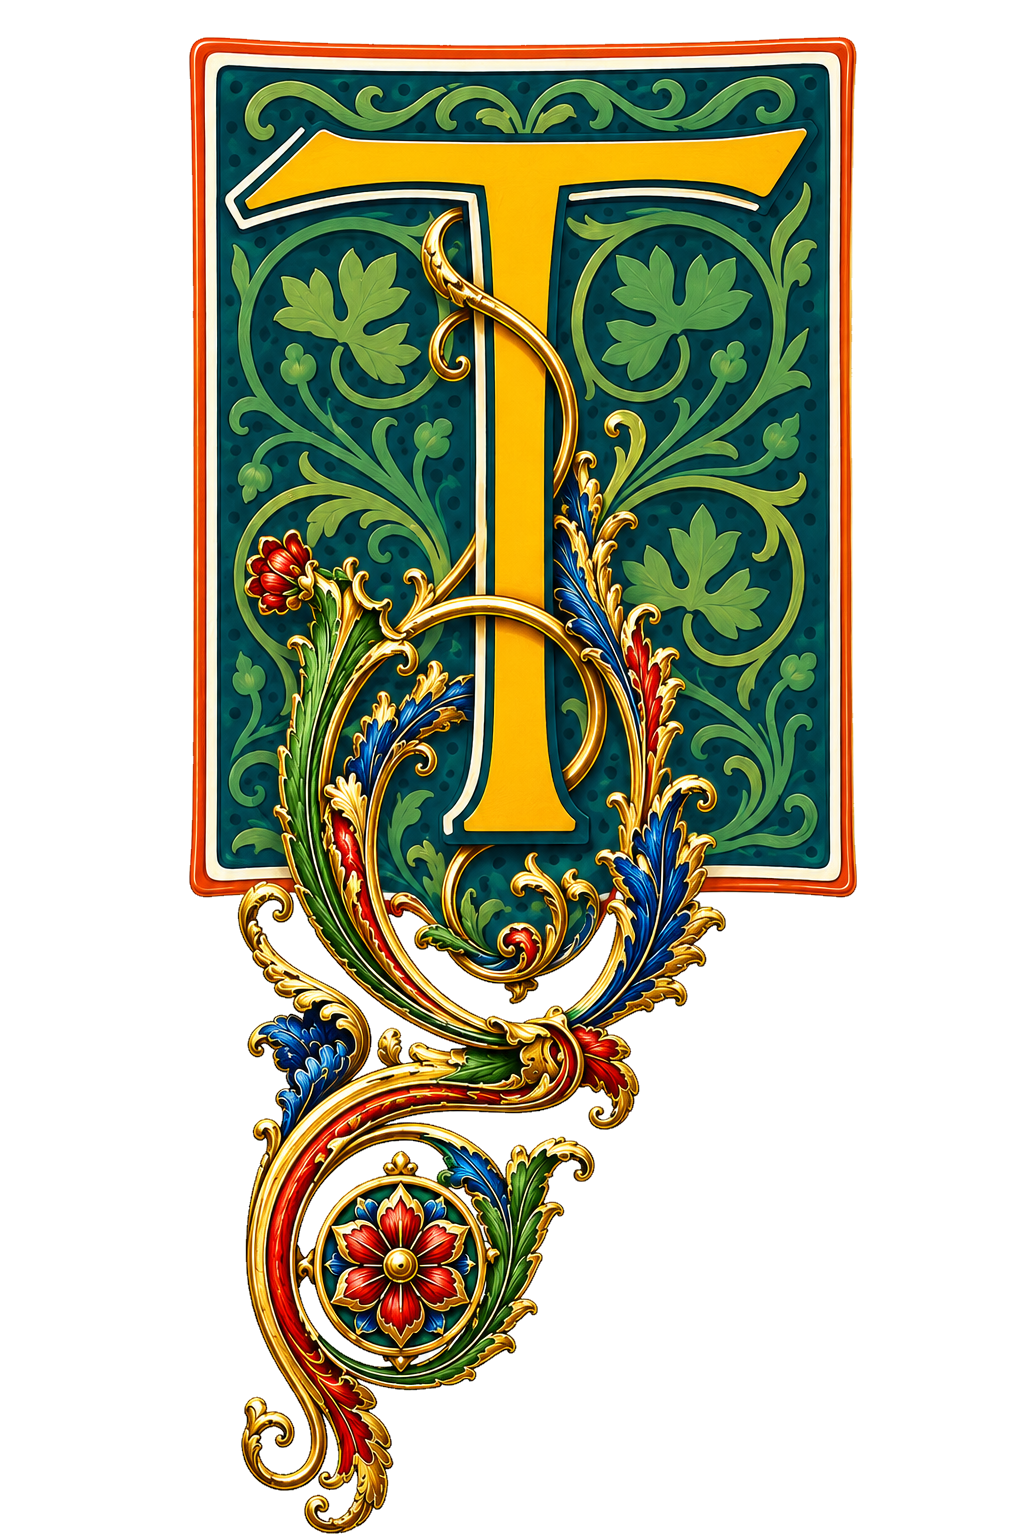
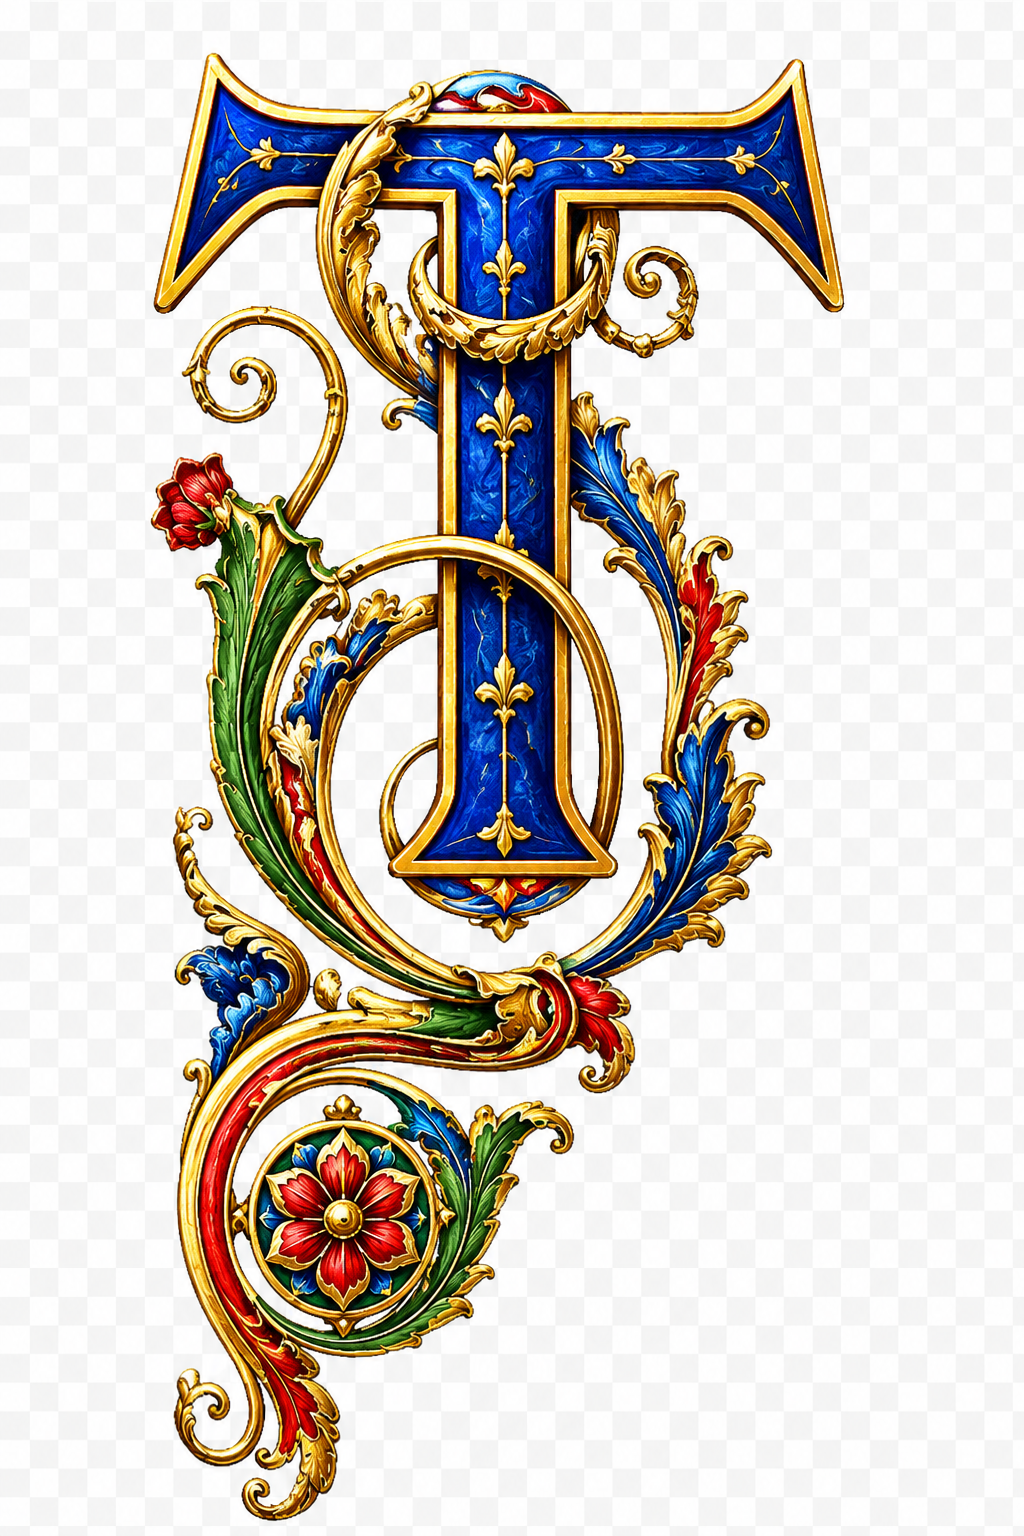
Add illuminated initials to Stuttgart page

diff --git a/style.css b/style.css
@@ -1460,6 +1460,31 @@ footer {
   letter-spacing: 0;
 }
 
+.heritageIlluminatedTitle {
+  font-family: Georgia, "Times New Roman", serif;
+}
+
+.heritageIlluminatedTitle .titleName {
+  display: inline-flex;
+  align-items: flex-end;
+  gap: 2px;
+  margin-right: 0.12em;
+  vertical-align: baseline;
+}
+
+.heritageIlluminatedTitle .titleName img {
+  width: clamp(88px, 11vw, 148px);
+  height: auto;
+  margin-right: -0.16em;
+  transform: translateY(0.12em);
+}
+
+.heritageIlluminatedTitle .titleName span {
+  font-family: "UnifrakturCook", "UnifrakturMaguntia", "Old English Text MT", "Blackletter", Georgia, serif;
+  font-weight: 900;
+  letter-spacing: 0;
+}
+
 .heritageEssay h3 {
   margin: 46px 0 16px;
   font-size: clamp(24px, 2.5vw, 34px);
@@ -1488,6 +1513,30 @@ footer {
 
 .heritageEssay em {
   font-style: italic;
+}
+
+.parchmentPassage {
+  margin: 34px 0 48px;
+  padding: clamp(24px, 4vw, 42px);
+  border: 1px solid rgba(137, 94, 44, 0.28);
+  border-radius: 8px;
+  background:
+    radial-gradient(circle at 16% 18%, rgba(255, 255, 255, 0.38), transparent 28%),
+    radial-gradient(circle at 86% 82%, rgba(129, 82, 37, 0.12), transparent 34%),
+    linear-gradient(135deg, #f5dfc5 0%, #f1d1ac 48%, #ead7bd 100%);
+  box-shadow: inset 0 0 42px rgba(124, 79, 37, 0.13), 0 18px 46px rgba(71, 44, 20, 0.12);
+}
+
+.parchmentPassage p {
+  margin: 0;
+  color: #2f241c;
+}
+
+.parchmentInitial {
+  float: left;
+  width: clamp(72px, 10vw, 122px);
+  height: auto;
+  margin: 0.18em 0.22em 0 0;
 }
 
 .heritageReveal {

diff --git a/konig_von_england_stuttgart.html b/konig_von_england_stuttgart.html
@@ -25,7 +25,9 @@
       <figure><img src="images/culturalheritage/stuttgart/koenigvonengland.jpg" alt="König von England, Stuttgart"></figure>
     </section>
     <section class="objectContent sectionPanel reveal visible heritageEssay">
-      <h2>König von England: From a Renaissance-Era Domestic Building, Possibly, to a Baroque Court Café, an Inn, and a Witness to History</h2>
+      <h2 class="heritageIlluminatedTitle">
+        <span class="titleName"><img src="images/culturalheritage/stuttgart/initialk.png" alt="K" aria-hidden="true"><span>önig von England</span></span><span>: From a possible Renaissance-Era Domestic Building, to a Baroque Court Café, an Inn, and a Witness to History</span>
+      </h2>
       <p>Standing today in Schillerplatz, at the centre of Stuttgart's old town, between the Stiftskirche, the Altes Schloss, the Alte Kanzlei, and the Markthalle, one sees a restrained twentieth-century building composed of pale stone and regular window bays. Above its entrance, the name still reads: <em>König von England</em>, literally, "King of England."</p>
       <p>This name is not a nostalgic trademark invented by a modern developer. It continues the name of a celebrated hotel destroyed in the air raids of 1944. Looking further back, the site is connected with Stuttgart's earliest public coffee house, eighteenth-century reading societies, a nineteenth-century high-class hotel, the travel histories of writers and musicians, and the post-war debate over whether historical buildings should be reconstructed or replaced by contemporary architecture.</p>
       <p>Strictly speaking, the present <em>König von England</em> is not a single building that has existed continuously for several centuries. Rather, it consists of two architectural generations on the same site and under the same name: first, a timber-framed inn that developed from the sixteenth century onward, was substantially remodelled in 1798, and burned down in 1944; and second, an office and commercial building erected between 1954 and 1956, with an extension added in 1960/61.</p>
@@ -34,7 +36,7 @@
       <p>The building stands at Dorotheenstraße 2, 70173 Stuttgart, at the junction of Dorotheenstraße, Kirchstraße, and Schillerplatz, at approximately 48.7766° N and 9.1785° E.</p>
       <p>The significance of this location derives first from its relationship to Stuttgart's courtly quarter. In 1594, Duke Friedrich I of Württemberg commissioned the architect Heinrich Schickhardt to reorganise the space west of the palace. Older domestic buildings were purchased and demolished, and a representative Renaissance square was laid out: the later <em>Schloss- und Kanzleiplatz</em>. Before the twentieth century, today's Schillerplatz was usually known as the <em>Alter Schlossplatz</em>; only in 1934 was it officially renamed Schillerplatz.</p>
       <p>The plot later occupied by the <em>König von England</em> lay on the southern side of the square, between the Altes Schloss and the Stiftskirche. Facing the court and administrative buildings on one side, and connected to the market and the lanes of the old town on the other, the site was naturally suited to lodging, dining, newspaper reading, and social exchange. Local historical accounts suggest that a building already stood on this corner in the sixteenth century. The large timber-framed hotel visible in old photographs was in fact formed through the combination and enlargement of three earlier building units. This also explains why it combined an early <em>Fachwerk</em> appearance with an interior spatial order unified at the end of the eighteenth century.</p>
-      <p>The following discussion is based on historical materials and on the reconstruction of old photographs through AI-assisted methods.</p>
+      <p>The following part is based on historical materials and on the reconstruction of old photographs through Al-assisted methods.</p>
 
       <figure class="heritageReveal" data-heritage-reveal tabindex="0" role="button" aria-label="Click to reveal the historical photograph, then drag the handle left to compare the coloured reconstruction">
         <div class="heritageRevealStage">
@@ -72,7 +74,9 @@
       <p>Two dates survive in the available material: 1793, the date of a vaulted keystone bearing the initials of Heinrich Zacharias Glaser; and 1798, usually regarded as the year in which the overall hotel conversion was completed and the building formally became <em>Zum König von England</em>. This suggests that the work likely extended over several years rather than being completed abruptly in 1798 alone.</p>
       <p>The exterior retained the character of a striking <em>Fachwerkhaus</em>, a timber-framed building. Old photographs show tall gables, dense and decorative timber grids, and a complex massing facing the square and church. Later writers described it as one of Stuttgart's most splendid or most beautiful timber-framed buildings; such descriptions, however, are evaluative rather than objectively rankable facts.</p>
       <p>The more specific character of the 1798 transformation appeared in the interior, which adopted <em>Klassizismus</em>, or Neoclassicism. The second floor contained large banquet and dining rooms; spatial proportions, wall treatment, and decoration moved toward a classical order; and the formerly dispersed houses were integrated into a high-class hotel that could accommodate lodging, dining, reading, and sociability. In this sense, it rose from a coffee house to what Stuttgart called the <em>erstes Haus am Platz</em>, literally "the first house on the square," but in practice the leading hotel in the city.</p>
-      <p>The <em>König von England</em> was clearly a <em>gewachsener Bau</em>, a building that had grown over time. Its timber-framed tradition and parts of its earlier structure may have derived from the sixteenth and seventeenth centuries, while the overall hotel arrangement was produced through the combination and remodelling of previous buildings, chiefly at the end of the eighteenth century. As a researcher and devoted admirer of medieval and early modern civilisation, I have attempted to reconstruct in 3D the possible appearance of the building in its late seventeenth-century flourishing phase, using the history of German Renaissance architectural change, documentary materials on the <em>König von England</em>, and old photographs.</p>
+      <div class="parchmentPassage">
+        <p><img class="parchmentInitial" src="images/culturalheritage/stuttgart/initialt.png" alt="T" aria-hidden="true">he <em>König von England</em> was clearly a <em>gewachsener Bau</em>, a building that had grown over time. Its timber-framed tradition and parts of its earlier structure may have derived from the sixteenth and seventeenth centuries, while the overall hotel arrangement was produced through the combination and remodelling of previous buildings, chiefly at the end of the eighteenth century. As a researcher and devoted admirer of medieval and early modern civilisation, I have attempted to reconstruct in 3D the possible appearance of the building in its late seventeenth-century flourishing phase, using the history of German Renaissance architectural change, documentary materials on the <em>König von England</em>, and old photographs.</p>
+      </div>
 
       <section class="heritageModel" data-heritage-model aria-label="Interactive 3D reconstruction of König von England">
         <div class="heritageModelTop">